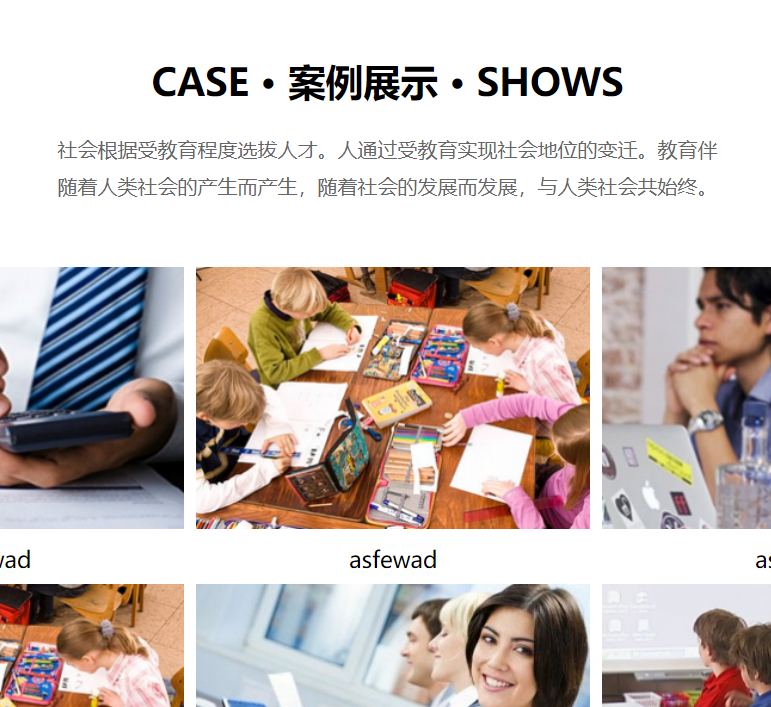
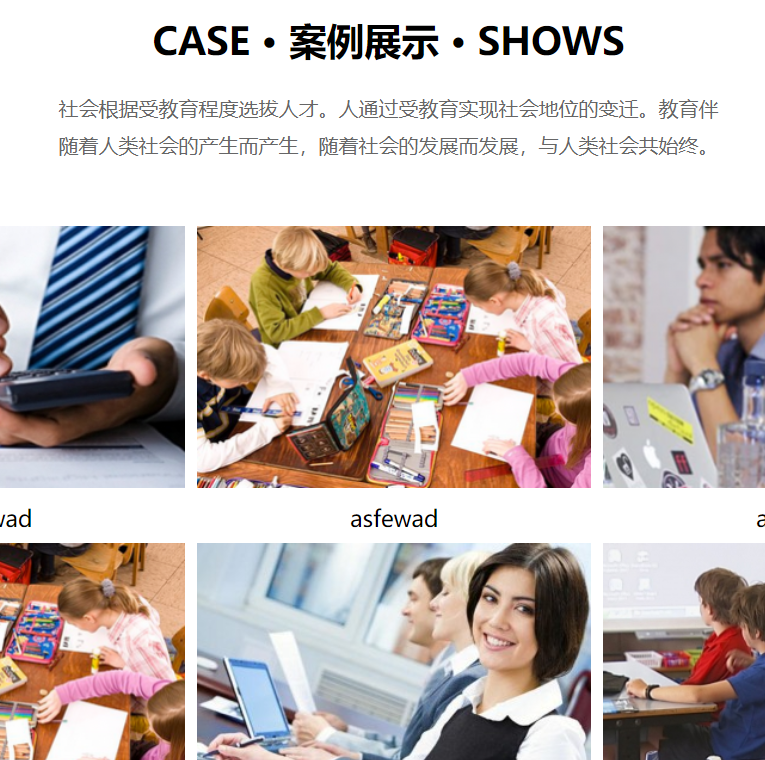
1

diff --git a/index.html b/index.html
@@ -373,28 +373,84 @@
 			<div class="row">
 				<div class="col-md-4">
 					<div class="fh5co-blog animate-box">
-						<a href="work/index.html" class="work" style=" width: 360px; height: 320px; background-image: url('./images/work1.jpg'); background-size: 100%;">
-					</a>
+						<a href="work/index.html" class="work" style=" width: 360px; height: 310px; background-image: url('./images/work1.jpg'); background-size: 100%;">
+						</a>
 						<div class="blog-text">
-							<h3><a href="#">项目介绍</a></h3>
-							<p>Far far away, behind the word mountains, far from the countries Vokalia and Consonantia, there live the blind texts.</p>
+							<h3><a href="work/index.html">拖拽</a></h3>
+							<h4>原理</h4>
+							<p>1 将目标设置为浮动 （css position absulote）</p>
+							<p>	2 触发事件 click 及mouseMove</p>
+							<p>	3 mouseMove获得鼠标位置 event.getPageX event.getPageY</p>
+							<p>	4 mouseMove设置目标位置与鼠标位置相同以达到拖动效果</p>
+							<p>	5 mouseUp事件取消拖动</p>
 							
 						</div> 
 					</div>
 				</div>
 				<div class="col-md-4">
 					<div class="fh5co-blog animate-box">
-						<a href="#" class="blog-bg" style="background-image: url(images/portfolio-2.jpg);"></a>
+						<a href="work/tab.html" class="work" style=" width: 360px; height: 310px; background-image: url('./images/work2.jpg'); background-size: 100%;">
+						</a>
 						<div class="blog-text">
-							<h3><a href="#">项目介绍</a></h3>
-							<p>Far far away, behind the word mountains, far from the countries Vokalia and Consonantia, there live the blind texts.</p>
+							<h3><a href="work/tab.html">tab切换</a></h3>
+							<h4>原理：</h4>
+							<p>利用for循环遍历按钮；</p>
+
+							<p>	选中的按钮进行 onclick 事件时，首先删除所有按钮的类名，使其全部显示灰色；</p>
+								
+							<p>	然后给当前点击的按钮添加指定类名，使其显示橘色</p>
+							<p>点击按钮后先让底下的盒子全部隐藏</p>
+							<p>然后给当前所点击按钮相关联的盒子添加指定属性</p>				
+						</div> 
+					</div>
+				</div>
+				<div class="col-md-4">
+					<div class="fh5co-blog animate-box">
+						<a href="work/手风琴.html" class="work" style=" width: 360px; height: 310px; background-image: url('./images/work3.jpg'); background-size: 100%;">
+						</a>
+						<div class="blog-text">
+							<h3><a href="work/手风琴.html">手风琴效果</a></h3>
+							<h4>原理：</h4>
+							<p>使用两层for循环实现</p>
+							<p>	第一层有三个功能，分别给第个li：</p>
+							<p>	  添加索引</p>
+							<p>	  预设位置</p>
+							<p>  添加事件</p>	
+							<p>	第二层有两个功能，整理图片位置：</p>
+							<p>  鼠标的li，以及前面那些li的位置</p>	
+							<p>	  鼠标后面那些li的位置</p>
+							
+						</div> 
+					</div>
+				</div>
+			</div>
+			<div class="row">
+				<div class="col-md-4">
+					<div class="fh5co-blog animate-box">
+						<a href="work/起飞页1.html" class="work" style=" width: 360px; height: 310px; background-image: url('./images/work4.jpg'); background-size: 100%;">
+						</a>
+						<div class="blog-text">
+							<h3><a href="work/起飞页1.html">起飞页work1</a></h3>
+							<p></p>
 							
 						</div> 
 					</div>
 				</div>
 				<div class="col-md-4">
 					<div class="fh5co-blog animate-box">
-						<a href="#" class="blog-bg" style="background-image: url(images/portfolio-3.jpg);"></a>
+						<a href="work/起飞页2.html" class="work" style=" width: 360px; height: 310px; background-image: url('./images/work5.jpg'); background-size: 100%;">
+						</a>
+						<div class="blog-text">
+							<h3><a href="work/起飞页2.html">起飞页work2</a></h3>
+							<p></p>
+							
+						</div> 
+					</div>
+				</div>
+				<div class="col-md-4">
+					<div class="fh5co-blog animate-box">
+						<a href="work/手风琴.html" class="work" style=" width: 360px; height: 310px; background-image: url('./images/work2.jpg'); background-size: 100%;">
+						</a>
 						<div class="blog-text">
 							<h3><a href="#">项目介绍</a></h3>
 							<p>Far far away, behind the word mountains, far from the countries Vokalia and Consonantia, there live the blind texts.</p>
